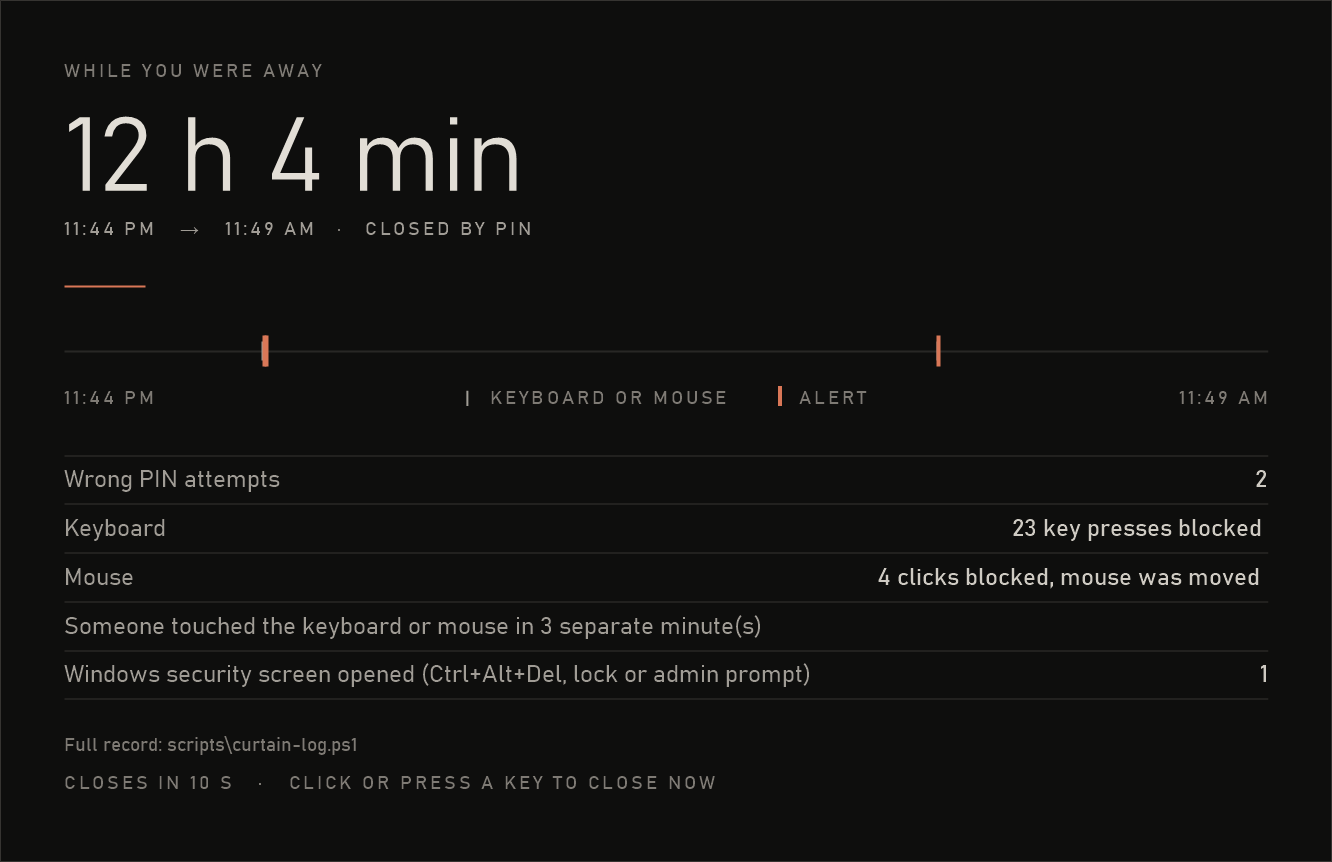
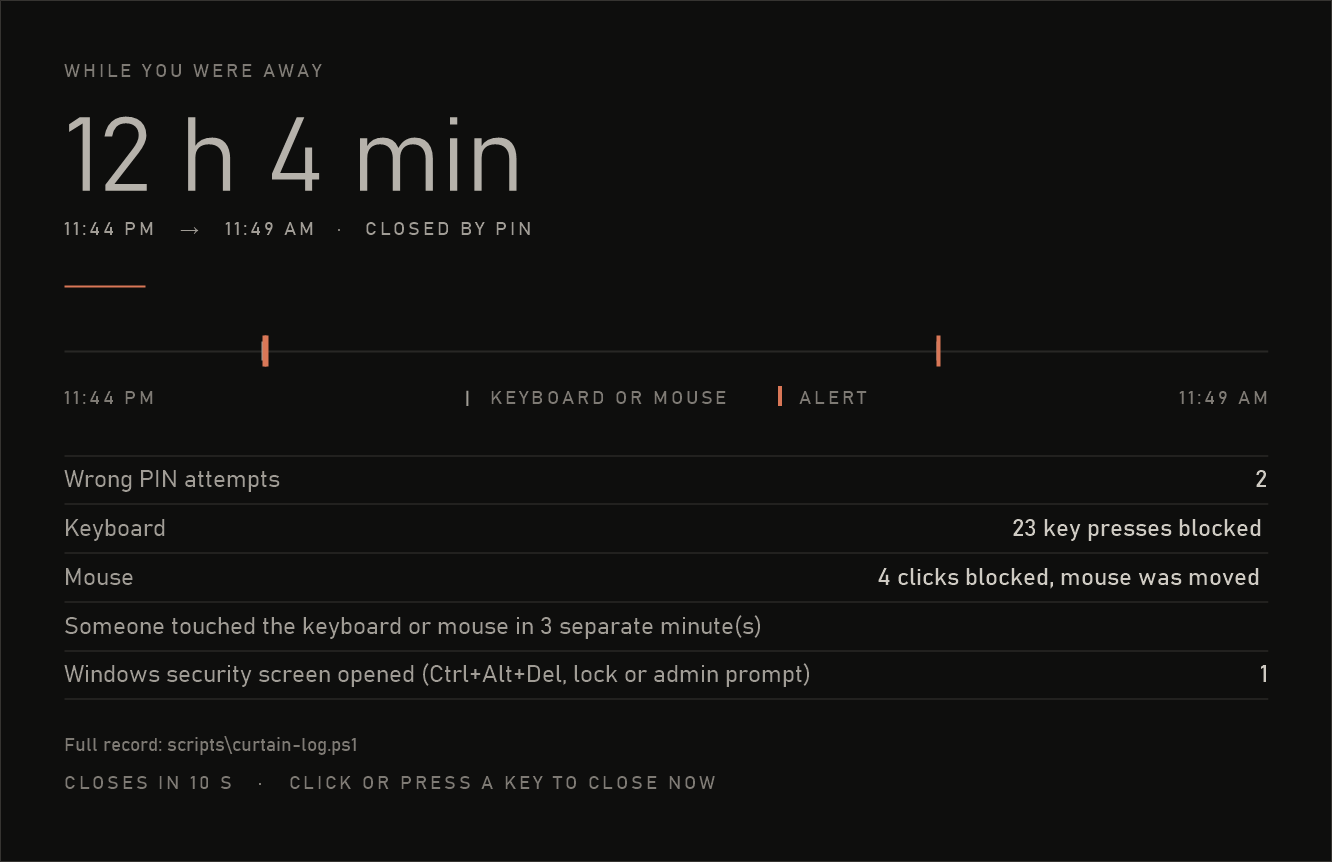
The clock a step grayer, and dimmer still overnight
The clock has its own tone now, a step under the brightest one (182
instead of 226), which stays for "now": the PIN dots and the charts'
latest points. At its size the brightest tone glared, above all at
night. Overnight the clock still dims to 70%, which meets WCAG AA
(5.1 : 1), and AM/PM never outshines the digits. The "While you were
away" window sets the session length in the same tone, dimmed overnight
like the clock. A new self-test reads the painted clock back, by day and
at night (124 checks, all passing).
The README's screenshots are rendered again from the sample data.

Changed region(s): [[0.0616, 0.1206, 0.4002, 0.2413]]

diff --git a/src/CurtainPainter.cs b/src/CurtainPainter.cs
@@ -50,7 +50,8 @@ namespace ClaudeCurtain
         public const double BreathSeconds = 7.0;
 
         // ---- Colour tokens. Text tones are checked against WCAG contrast on black by the self-tests.
-        internal static readonly Color Hero = Color.FromArgb(226, 222, 214);       // the time
+        internal static readonly Color Hero = Color.FromArgb(226, 222, 214);       // "now": the PIN dots, the latest points, the hour now
+        internal static readonly Color Time = Color.FromArgb(182, 178, 171);       // the clock, a step under Hero: at its size it would glare
         internal static readonly Color Primary = Color.FromArgb(206, 202, 194);    // title, highs
         internal static readonly Color Secondary = Color.FromArgb(160, 156, 149);  // body, values, chart marks (AAA)
         internal static readonly Color Tertiary = Color.FromArgb(126, 122, 116);   // labels, notes (AA)
@@ -66,6 +67,8 @@ namespace ClaudeCurtain
         {
             new KeyValuePair<string, Color>("hero", Hero),
             new KeyValuePair<string, Color>("hero at night", Scale(Hero, NightLevel)),
+            new KeyValuePair<string, Color>("the time", Time),
+            new KeyValuePair<string, Color>("the time at night", Scale(Time, NightLevel)),
             new KeyValuePair<string, Color>("primary", Primary),
             new KeyValuePair<string, Color>("secondary", Secondary),
             new KeyValuePair<string, Color>("tertiary", Tertiary),
@@ -459,7 +462,9 @@ namespace ClaudeCurtain
             float track = fLabel.Font.Size * 0.14f;
             L.Body = fBody; L.Label = fLabel; L.Small = fSmall; L.Data = fData; L.Track = track;
             L.Tiny = fTiny; L.TinyTrack = fTiny.Font.Size * 0.14f;
-            Color hero = Scale(Hero, s.NightDim > 0 ? s.NightDim : 1.0);
+            double night = s.NightDim > 0 ? s.NightDim : 1.0;
+            Color hero = Scale(Hero, night);   // the message's first line while someone is at the keyboard
+            Color time = Scale(Time, night);   // the clock
 
             List<Op> ops = new List<Op>();
             try
@@ -472,7 +477,7 @@ namespace ClaudeCurtain
                     // ---------------- left column: x = 0 is its edge, y = 0 the top of the digits
                     float y = fClock.CapHeight;
                     L.Baselines.Add(new KeyValuePair<string, float>("C", y));
-                    float leftW = AddClock(ops, m, s.Clock ?? "", fClock, fSuffix, hero, track, y, st(6), L);
+                    float leftW = AddClock(ops, m, s.Clock ?? "", fClock, fSuffix, time, track, y, st(6), L);
                     // ...but sized for the widest time it can ever show, so the minute turning moves nothing.
                     string clockText = L.ClockText;
                     bool twelve = (s.Clock ?? "").Trim().IndexOf(' ') > 0;
@@ -481,7 +486,7 @@ namespace ClaudeCurtain
                     string any = WidestDigit(m, fClock.Font, "0123456789"), tens = WidestDigit(m, fClock.Font, "012345");
                     string widest = (twelve ? "1" + WidestDigit(m, fClock.Font, "012") : WidestDigit(m, fClock.Font, "012") + any) + ":" + tens + any;
                     foreach (string suffix in twelve ? new[] { " AM", " PM" } : new[] { "" })
-                        leftW = Math.Max(leftW, AddClock(new List<Op>(), m, widest + suffix, fClock, fSuffix, hero, track, y, st(6), L));
+                        leftW = Math.Max(leftW, AddClock(new List<Op>(), m, widest + suffix, fClock, fSuffix, time, track, y, st(6), L));
                     L.ClockText = clockText;
 
                     string date = (s.Date ?? "").ToUpperInvariant();
@@ -1068,8 +1073,10 @@ namespace ClaudeCurtain
             float right = x;
             if (suffix.Length > 0)
             {
+                // AM/PM is a step quieter than the digits, and never brighter than them when they dim overnight.
                 float sx = right + gap;
-                right = sx + AddText(ops, m, suffix, fSuffix, Secondary, sx, baseline - f.CapHeight + fSuffix.CapHeight, track * 1.2f);
+                Color quiet = color.R < Secondary.R ? color : Secondary;
+                right = sx + AddText(ops, m, suffix, fSuffix, quiet, sx, baseline - f.CapHeight + fSuffix.CapHeight, track * 1.2f);
             }
             return right;
         }

diff --git a/src/EventLog.cs b/src/EventLog.cs
@@ -215,7 +215,7 @@ namespace ClaudeCurtain
 
     /// <summary>
     /// The "While you were away" window shown after a PIN unlock, in the curtain's design language: the
-    /// session length as the hero figure, a timeline of the session (short neutral ticks where someone was
+    /// session length as the hero figure (in the clock's tone, dimmed overnight like the clock), a timeline of the session (short neutral ticks where someone was
     /// at the keyboard or mouse, taller accent ticks for alerts), then the counts as a table. It sizes itself
     /// to its content and to the screen, never takes focus, and closes itself after 10 seconds.
     /// </summary>
@@ -247,6 +247,7 @@ namespace ClaudeCurtain
         private readonly Model model;
         private readonly List<KeyValuePair<double, string>> moments;   // seconds from start, kind (null: none)
         private readonly double span;
+        private readonly double night;     // the clock's brightness as the window opens: 1 by day, less overnight
         private readonly Size screen;      // the screen size the text is scaled to
         private readonly Rectangle area;   // where the window may sit: the primary monitor's working area
         private readonly List<Item> items = new List<Item>();
@@ -257,7 +258,7 @@ namespace ClaudeCurtain
         private int columns = 1;
         private int secondsLeft = 10;
 
-        public SummaryView(string text, List<KeyValuePair<double, string>> moments, double span, Size testScreen)
+        public SummaryView(string text, List<KeyValuePair<double, string>> moments, double span, Size testScreen, double night)
         {
             Rectangle bounds = new Rectangle(0, 0, 1920, 1080);
             Rectangle work = bounds;
@@ -275,6 +276,7 @@ namespace ClaudeCurtain
             model = Parse(text);
             this.moments = moments;
             this.span = span;
+            this.night = night > 0 && night <= 1 ? night : 1.0;
 
             Text = "While you were away";
             AutoScaleMode = AutoScaleMode.None;
@@ -384,7 +386,7 @@ namespace ClaudeCurtain
                 if (model.Duration.Length > 0)
                 {
                     y += st(4.5) + fHero.CapHeight;
-                    Add(model.Duration, fHero, CurtainPainter.Hero, x, y, 0);
+                    Add(model.Duration, fHero, CurtainPainter.Scale(CurtainPainter.Time, night), x, y, 0);
                     contentW = Math.Max(contentW, width(model.Duration, fHero, 0));
                     y += st(5) + fLabel.CapHeight;
                     string range = (model.From + "   →   " + model.To).ToUpperInvariant();
@@ -611,7 +613,7 @@ namespace ClaudeCurtain
             List<KeyValuePair<double, string>> moments = ReadTimeline(o.TimelineFile, o.SummaryFile, out span);
 
             Application.EnableVisualStyles();
-            using (SummaryView view = new SummaryView(text, moments, span, testScreen))
+            using (SummaryView view = new SummaryView(text, moments, span, testScreen, CurtainPainter.NightFactor(DateTime.Now)))
             {
                 if (!string.IsNullOrEmpty(o.OutFile))
                 {

diff --git a/src/SelfTest.cs b/src/SelfTest.cs
@@ -491,6 +491,37 @@ namespace ClaudeCurtain
             Check("colour: every text tone meets WCAG AA on black (4.5:1)", aa);
             Check("colour: body text and values meet WCAG AAA on black (7:1)", CurtainPainter.ContrastOnBlack(CurtainPainter.Secondary) >= 7.0);
 
+            // The clock has its own tone, a step under hero (at its size hero glares, above all at night), and
+            // dims overnight: the composed frame really paints it so.
+            bool clockTone = CurtainPainter.Time.R < CurtainPainter.Hero.R;
+            string clockSeen = "";
+            foreach (string clockState in new[] { "idle", "night" })
+            {
+                DisplayState clockSample = CurtainPreview.Sample(new Options { LocalDir = Path.Combine(o.LocalDir, "no-such-dir"), TestState = clockState });
+                Color clockWant = CurtainPainter.Scale(CurtainPainter.Time, clockState == "night" ? CurtainPainter.NightLevel : 1.0);
+                using (CurtainPainter.Layout clockLayout = CurtainPainter.Compose(clockSample, 2560, 1440))
+                {
+                    int[] clockPx = MapArt.GetPixels(clockLayout.Block);
+                    int clockW = clockLayout.Block.Width, brightest = 0;
+                    int cx0 = Math.Max(0, (int)(clockLayout.OriginX + clockLayout.LeftCol.Left));
+                    int cx1 = Math.Min(clockW, (int)(clockLayout.OriginX + clockLayout.LeftCol.Right));
+                    float clockBase = 0;
+                    foreach (KeyValuePair<string, float> b in clockLayout.Baselines) if (b.Key == "C") { clockBase = b.Value; break; }
+                    int cy0 = Math.Max(0, (int)clockLayout.OriginY);
+                    int cy1 = Math.Min(clockLayout.Block.Height, (int)(clockLayout.OriginY + clockBase));
+                    for (int cy = cy0; cy < cy1; cy++)       // the band of the digits (and AM/PM): nothing else is there
+                        for (int cx = cx0; cx < cx1; cx++)
+                        {
+                            int p = clockPx[cy * clockW + cx];
+                            if (((p >> 24) & 0xFF) >= 250) brightest = Math.Max(brightest, (p >> 16) & 0xFF);
+                        }
+                    clockSeen += (clockSeen.Length > 0 ? ", " : "") + clockState + " " + brightest;
+                    if (Math.Abs(brightest - clockWant.R) > 2) clockTone = false;
+                }
+            }
+            lines.Add("INFO  the clock's brightest red: " + clockSeen + " (the time " + CurtainPainter.Time.R + ", hero " + CurtainPainter.Hero.R + ")");
+            Check("colour: the clock is painted in its own tone, a step under hero, and dims overnight", clockTone);
+
             // Motion: the animations run with a fixed clock, start fast frames, and settle again.
             using (Bitmap canvas = new Bitmap(1280, 720))
             using (Graphics g = Graphics.FromImage(canvas))

diff --git a/src/Preview.cs b/src/Preview.cs
@@ -76,7 +76,7 @@ namespace ClaudeCurtain
             moments.Add(new KeyValuePair<double, string>(7230, "wrong-pin"));
             moments.Add(new KeyValuePair<double, string>(7290, "wrong-pin"));
             moments.Add(new KeyValuePair<double, string>(31530, "security-screen"));
-            using (SummaryView v = new SummaryView(text, moments, 12 * 3600 + 4 * 60, new Size(w, h)))
+            using (SummaryView v = new SummaryView(text, moments, 12 * 3600 + 4 * 60, new Size(w, h), 1.0))
             using (Bitmap b = new Bitmap(v.ClientSize.Width, v.ClientSize.Height, PixelFormat.Format32bppArgb))
             using (Graphics g = Graphics.FromImage(b))
             {

diff --git a/README.md b/README.md
@@ -132,12 +132,12 @@ Task Manager coming to the front and any administrator window taking focus; sess
 Desktop; network drops and returns; the process being killed; and, at the next start, an earlier curtain
 that ended with no record (power cut, crash, kill).
 
-On a PIN unlock a "While you were away" window shows how long you were gone, a timeline of the session
-(short neutral ticks for minutes when someone was at the keyboard or mouse, taller accent ticks for
-alerts such as a wrong PIN or the security screen), and the totals as a table. It never takes focus and
-closes itself after 10 seconds. It sizes itself to its content and the screen: a long summary first flows
-its table into more columns, then steps its text down, until it fits. `curtain-off.ps1` prints the same
-summary as text.
+On a PIN unlock a "While you were away" window shows how long you were gone (in the clock's tone, dimmed
+overnight like the clock), a timeline of the session (short neutral ticks for minutes when someone was at
+the keyboard or mouse, taller accent ticks for alerts such as a wrong PIN or the security screen), and the
+totals as a table. It never takes focus and closes itself after 10 seconds. It sizes itself to its content
+and the screen: a long summary first flows its table into more columns, then steps its text down, until it
+fits. `curtain-off.ps1` prints the same summary as text.
 
 ![The "While you were away" window: 12 h 4 min, 11:44 PM to 11:49 AM, closed by PIN; a timeline with ticks; and a table of counts](docs/summary.png) The closing time is not shown on
 screen; `curtain-on.ps1` and `curtain-status.ps1` print it.
@@ -238,8 +238,10 @@ about what it is doing. Everything on it comes from one proportional system buil
   comes back when the row clears.
 - **Colour.** Warm neutrals in four text tones and one accent, the short terracotta rule. The self-tests
   compute each tone's contrast on black: every text tone meets WCAG AA (the faintest labels are 4.9 : 1)
-  and body text and values meet AAA (7.7 : 1). Overnight (10:30 PM to 6:30 AM, with hour-long ramps) the
-  clock dims to 70% so it glows less in a dark room, and still meets AAA.
+  and body text and values meet AAA (7.7 : 1). The clock has its own tone, a step under the brightest,
+  which is kept for "now" (the PIN dots, the charts' latest points): at its size the brightest would glare.
+  Overnight (10:30 PM to 6:30 AM, with hour-long ramps) the clock dims to 70% so it glows less in a dark
+  room, and still meets AA (5.1 : 1); AM/PM never outshines the digits.
 - **Motion.** The composition is rendered once into an image, again only when something on it changes
   (about 30 to 50 ms), and moved as one rigid piece a whole pixel at a time, so lines never shimmer
   against each other. It fades in when the curtain rises and cross-fades when the minute turns. The
@@ -383,7 +385,7 @@ Please read these before relying on the curtain.
 ```
 
 They use a throwaway PIN in `local\test` and never touch the real one, and they never call your notify
-hook. The self-tests (~123 checks, including PIN hashing/entry rules, which key presses belong to your own
+hook. The self-tests (~124 checks, including PIN hashing/entry rules, which key presses belong to your own
 unlock, the time-zone label, the stats sampler, weather-file reading, and the design: every state rendered
 at 720p, 1080p, 16:10, 1440p, ultrawide and portrait, fitting the screen, the columns exactly φ : 1, the
 forecast's header on the map's line,
